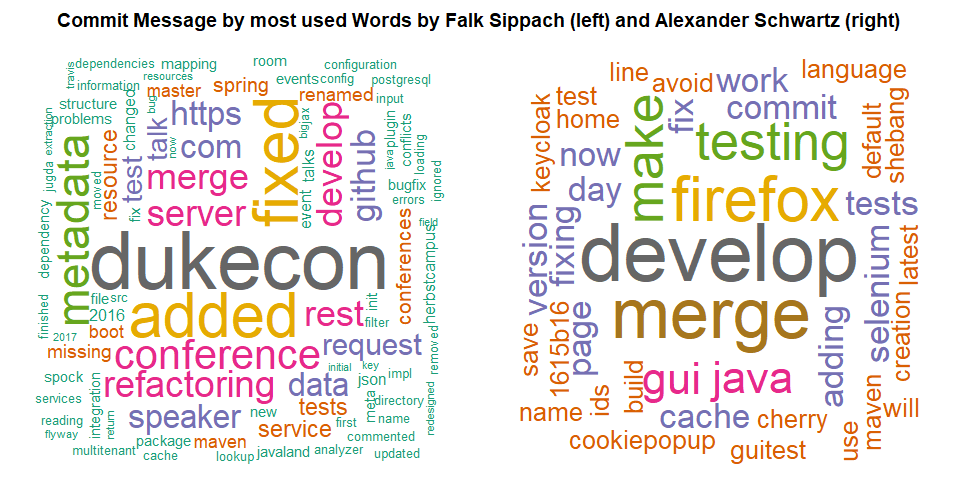
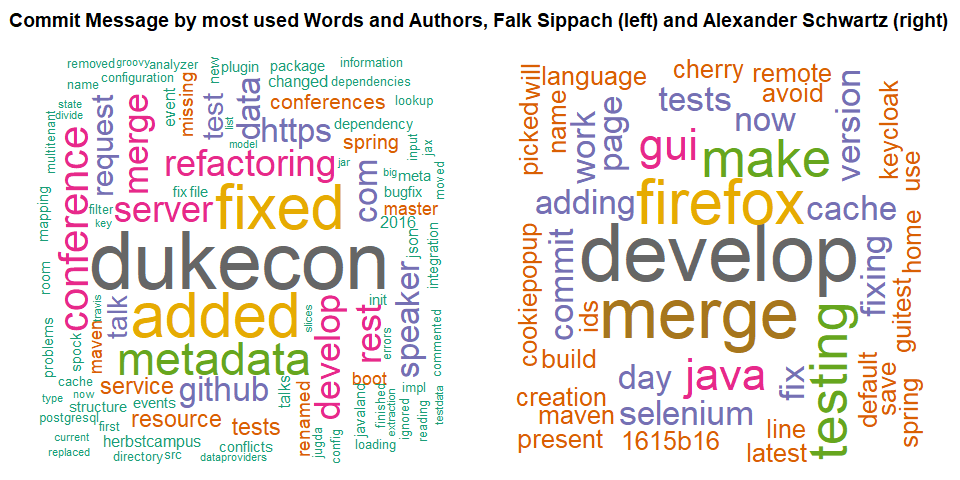
Fix typos

Changed region(s): [[0.0312, 0.125, 0.4688, 0.9688], [0.5312, 0.125, 0.9688, 0.9688], [0.0, 0.0312, 1.0, 0.0625]]

diff --git a/analysis/dukecon/Repository_Analysis.md b/analysis/dukecon/Repository_Analysis.md
@@ -1,4 +1,4 @@
-Git-Repository Analysis
+Git Repository Analysis
 ================
 
 -   [Introduction](#introduction)
@@ -48,7 +48,7 @@ Introduction
 
 ### Topic
 
-In dieser Arbeit befassen wir uns mit der Analyse eines beispielhaften Git-Repositories.
+In dieser Arbeit befassen wir uns mit der Analyse eines beispielhaften Git-Repositorys.
 
 Konkret handelt es sich um ein Repository für ein Konferenz-Tool, mit dem Besuchern die Möglichkeit gegeben wird, Veranstaltungen anzusehen und sich diese vormerken zu können. Wir haben uns für dieses Repository entschieden, da es sich vom Umfang her gut für das Projekt eignet und wir die Anwendung sowie einige der beteiligten Autoren persönlich kennen.
 
@@ -410,7 +410,7 @@ Beide Autoren konzentrieren sich hauptsächlich auf Java- und Groovy-Dateien, je
 
 ### Ownership of Repository
 
-Anhand der Change Counts der Autoren kann man diesen auch ein relatives Maß am Besitz eines Teils des Repositories zuschreiben. Dadurch lassen sich Domänen herausarbeiten, die bestimmten Entwicklern "gehören".
+Anhand der Change Counts der Autoren kann man diesen auch ein relatives Maß am Besitz eines Teils des Repositorys zuschreiben. Dadurch lassen sich Domänen herausarbeiten, die bestimmten Entwicklern "gehören".
 
 #### Ownership of Repository by File Types and Authors
 
@@ -469,7 +469,7 @@ Anhand der beiden Grafiken kann man darüber hinaus erkennen, dass Alexander Sch
 
 #### Ownership of Repository by Packages
 
-Das gleiche Prinzip lässt sich auch auf die Ordnerstrukturen im Projekt anwenden. Für einen besseren Überblick betrachten wir nur die ersten 25 Packages des Repositories, die einen Änderungsanteil von mindestens 1% am gesamten Repository haben.
+Das gleiche Prinzip lässt sich auch auf die Ordnerstrukturen im Projekt anwenden. Für einen besseren Überblick betrachten wir nur die ersten 25 Packages des Repositorys, die einen Änderungsanteil von mindestens 1% am gesamten Repository haben.
 
 -   Cypher-Query:
 
@@ -611,7 +611,7 @@ Ein zwar nicht allzu genaues, aber dennoch interessantes Maß sind die Vorkommen
 
 #### Word Cloud of Repository
 
-In der folgenden Grafik lassen sich die häufigen verwendeten Wörter innerhalb der Commit-Messages des gesamten Repositories erkennen. Wir ersetzen bereis durch die Cypher-Query uninteressante Wörter wie "of" oder "for".
+In der folgenden Grafik lassen sich die häufigen verwendeten Wörter innerhalb der Commit-Messages des gesamten Repositorys erkennen. Wir ersetzen bereis durch die Cypher-Query uninteressante Wörter wie "of" oder "for".
 
 -   Cypher-Query:
 
@@ -720,7 +720,7 @@ data$xml <- tm_map(data$xml, removeWords, stopwords("english"))
 par(mfrow=c(1,2), oma=c(0,0,2,0))
 wordcloud(data$java, scale=c(5,0.5), max.words=100, min.freq=2, random.order=FALSE, rot.per=0.35, use.r.layout=FALSE, colors=brewer.pal(8, palette))
 wordcloud(data$xml, scale=c(5,0.5), max.words=100, min.freq=2, random.order=FALSE, rot.per=0.35, use.r.layout=FALSE, colors=brewer.pal(8, palette))
-title("Commit Message by most used Words by File Types Java (left) and XML (right)", outer=TRUE)
+title("Commit Message by most used Words and File Types, Java (left) and XML (right)", outer=TRUE)
 ```
 
 ![](Repository_Analysis_files/figure-markdown_github/commit-message-by-most-used-words-by-file-types-1.png)
@@ -784,7 +784,7 @@ data$schwartz <- tm_map(data$schwartz, removeWords, stopwords("english"))
 par(mfrow=c(1,2), oma=c(0,0,2,0))
 wordcloud(data$sippach, scale=c(5,0.5), max.words=100, min.freq=2, random.order=FALSE, rot.per=0.35, use.r.layout=FALSE, colors=brewer.pal(8, palette))
 wordcloud(data$schwartz, scale=c(5,0.5), max.words=100, min.freq=2, random.order=FALSE, rot.per=0.35, use.r.layout=FALSE, colors=brewer.pal(8, palette))
-title("Commit Message by most used Words by Falk Sippach (left) and Alexander Schwartz (right)", outer=TRUE)
+title("Commit Message by most used Words and Authors, Falk Sippach (left) and Alexander Schwartz (right)", outer=TRUE)
 ```
 
 ![](Repository_Analysis_files/figure-markdown_github/commit-message-by-most-used-words-by-authors-1.png)
@@ -800,6 +800,6 @@ Conclusion
 
 In dieser Arbeit haben wir einige unterschiedliche Wege genommen, um das gewählte Repository zu untersuchen. Es gibt natürlich noch weitere interessante Möglichkeiten, nützliche Informationen aus dem Repository zu gewinnen. Sie würden den Rahmen dieser Arbeit jedoch sprengen. Gerne würden wir besonders aufschlussreiche Merkmale wie beispielsweise den Anteil an Lines of Code je Entwickler oder mögliche versteckte Abhängigkeiten in Form von gemeinsam eingecheckten Dateien betrachten. Die Auswertung dieser Merkmale würde jedoch vermutlich weitere Tools erfordern oder lassen sich mithilfe von R nur schwer visualisieren. Aus diesen Gründen sind sie aus unserem Abfragenkatalog herausgefallen.
 
-Wir sind mit den gewählten Betrachtungen und den damit gewonnenen Erkenntnissen jedoch zufrieden. Es lassen sich Merkmale herausarbeiten, die auf die Qualität des Git-Repositories schließen. Besonders Punkte wie der Besitz von Packages, Dateien oder Dateitypen geben Aufschluss über die Entwicklungsschwerpunkte der Autoren, die sowohl auf Chancen als auch auf Risiken hindeuten.
+Wir sind mit den gewählten Betrachtungen und den damit gewonnenen Erkenntnissen jedoch zufrieden. Es lassen sich Merkmale herausarbeiten, die auf die Qualität des Git-Repositorys schließen. Besonders Punkte wie der Besitz von Packages, Dateien oder Dateitypen geben Aufschluss über die Entwicklungsschwerpunkte der Autoren, die sowohl auf Chancen als auch auf Risiken hindeuten.
 
 In diesem Projekt haben wir allgemein viel über die Thematik und über die gewählten Tools gelernt. Die gewonnenen Erkenntnisse und Methodiken bieten die Möglichkeit, in Zukunft auch andere Git-Repositories problemlos und in kurzer Zeit analysieren zu können. Wir sind mit dem gewählten Thema sehr zufrieden und freuen uns, dass wir dieses im Rahmen einer Projektarbeit ausarbeiten konnten.
